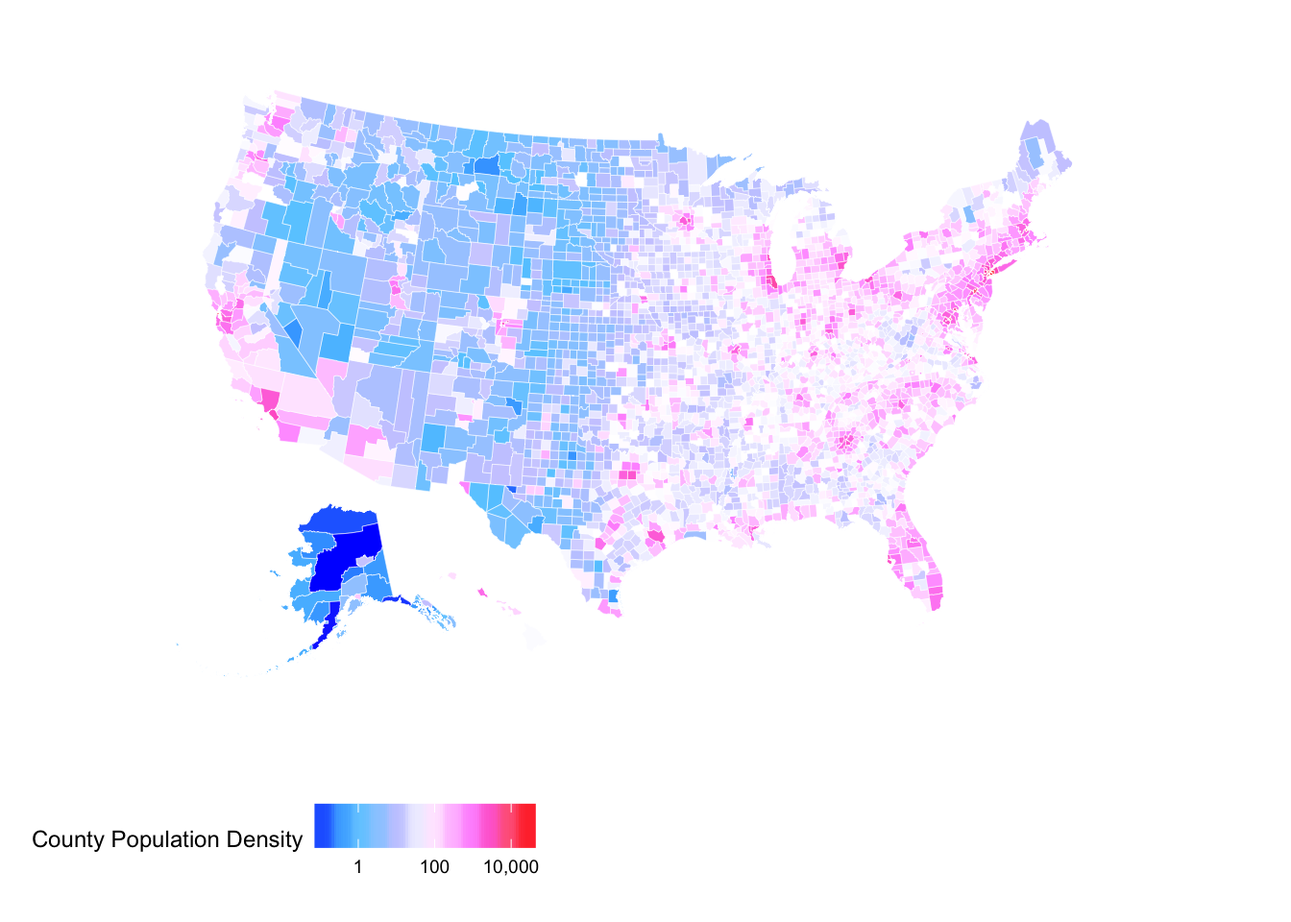
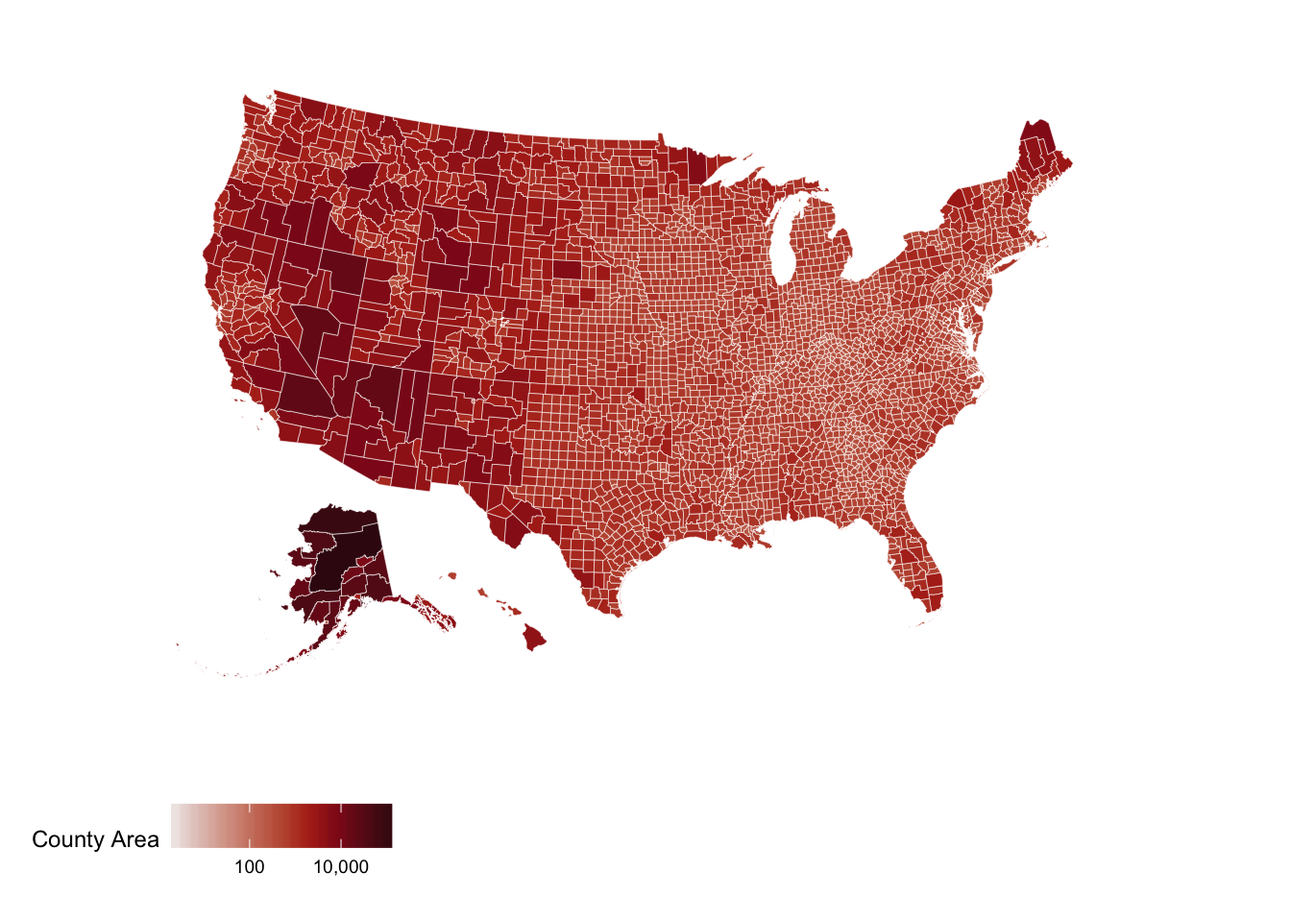
Badges, lots of stinking badges. [skip ci]

Changed region(s): [[0.1562, 0.0938, 0.8438, 0.7188], [0.0938, 0.8438, 0.4375, 0.9688], [0.4062, 0.6875, 0.4375, 0.7188]]

diff --git a/docs/index.html b/docs/index.html
@@ -1,8 +1,20 @@
 <!DOCTYPE html>
-<!-- Generated by pkgdown: do not edit by hand --><html><head><meta http-equiv="Content-Type" content="text/html; charset=UTF-8"><meta charset="utf-8"><meta http-equiv="X-UA-Compatible" content="IE=edge"><meta name="viewport" content="width=device-width, initial-scale=1.0"><title>Color Palettes using Colormaps Node Module &bull; colormap</title><!-- jquery --><script src="https://code.jquery.com/jquery-3.1.0.min.js" integrity="sha384-nrOSfDHtoPMzJHjVTdCopGqIqeYETSXhZDFyniQ8ZHcVy08QesyHcnOUpMpqnmWq" crossorigin="anonymous"></script><!-- Bootstrap --><link href="https://maxcdn.bootstrapcdn.com/bootstrap/3.3.7/css/bootstrap.min.css" rel="stylesheet" integrity="sha384-BVYiiSIFeK1dGmJRAkycuHAHRg32OmUcww7on3RYdg4Va+PmSTsz/K68vbdEjh4u" crossorigin="anonymous"><script src="https://maxcdn.bootstrapcdn.com/bootstrap/3.3.7/js/bootstrap.min.js" integrity="sha384-Tc5IQib027qvyjSMfHjOMaLkfuWVxZxUPnCJA7l2mCWNIpG9mGCD8wGNIcPD7Txa" crossorigin="anonymous"></script><!-- Font Awesome icons --><link href="https://maxcdn.bootstrapcdn.com/font-awesome/4.6.3/css/font-awesome.min.css" rel="stylesheet" integrity="sha384-T8Gy5hrqNKT+hzMclPo118YTQO6cYprQmhrYwIiQ/3axmI1hQomh7Ud2hPOy8SP1" crossorigin="anonymous"><!-- pkgdown --><link href="pkgdown.css" rel="stylesheet"><script src="pkgdown.js"></script><!-- mathjax --><script src="https://cdn.mathjax.org/mathjax/latest/MathJax.js?config=TeX-AMS-MML_HTMLorMML"></script><!--[if lt IE 9]>
+<!-- Generated by pkgdown: do not edit by hand --><html>
+<head>
+<meta http-equiv="Content-Type" content="text/html; charset=UTF-8">
+<meta charset="utf-8">
+<meta http-equiv="X-UA-Compatible" content="IE=edge">
+<meta name="viewport" content="width=device-width, initial-scale=1.0">
+<title>Color Palettes using Colormaps Node Module • colormap</title>
+<!-- jquery --><script src="https://code.jquery.com/jquery-3.1.0.min.js" integrity="sha384-nrOSfDHtoPMzJHjVTdCopGqIqeYETSXhZDFyniQ8ZHcVy08QesyHcnOUpMpqnmWq" crossorigin="anonymous"></script><!-- Bootstrap --><link href="https://maxcdn.bootstrapcdn.com/bootstrap/3.3.7/css/bootstrap.min.css" rel="stylesheet" integrity="sha384-BVYiiSIFeK1dGmJRAkycuHAHRg32OmUcww7on3RYdg4Va+PmSTsz/K68vbdEjh4u" crossorigin="anonymous">
+<script src="https://maxcdn.bootstrapcdn.com/bootstrap/3.3.7/js/bootstrap.min.js" integrity="sha384-Tc5IQib027qvyjSMfHjOMaLkfuWVxZxUPnCJA7l2mCWNIpG9mGCD8wGNIcPD7Txa" crossorigin="anonymous"></script><!-- Font Awesome icons --><link href="https://maxcdn.bootstrapcdn.com/font-awesome/4.6.3/css/font-awesome.min.css" rel="stylesheet" integrity="sha384-T8Gy5hrqNKT+hzMclPo118YTQO6cYprQmhrYwIiQ/3axmI1hQomh7Ud2hPOy8SP1" crossorigin="anonymous">
+<!-- pkgdown --><link href="pkgdown.css" rel="stylesheet">
+<script src="pkgdown.js"></script><!-- mathjax --><script src="https://cdn.mathjax.org/mathjax/latest/MathJax.js?config=TeX-AMS-MML_HTMLorMML"></script><!--[if lt IE 9]>
 <script src="https://oss.maxcdn.com/html5shiv/3.7.3/html5shiv.min.js"></script>
 <script src="https://oss.maxcdn.com/respond/1.4.2/respond.min.js"></script>
-<![endif]--></head><body>
+<![endif]-->
+</head>
+<body>
     <div class="container">
       <header><div class="navbar navbar-default  navbar-fixed-top" role="navigation">
   <div class="container">
@@ -15,7 +27,8 @@
       <a class="navbar-brand" href="index.html">colormap</a>
     </div>
     <div id="navbar" class="navbar-collapse collapse">
-      <ul class="nav navbar-nav"><li>
+      <ul class="nav navbar-nav">
+<li>
   <a href="index.html">Home</a>
 </li>
 <li>
@@ -24,15 +37,21 @@
 <li>
   <a href="news/index.html">News</a>
 </li>
-      </ul><ul class="nav navbar-nav navbar-right"><li>
+      </ul>
+<ul class="nav navbar-nav navbar-right">
+<li>
   <a href="https://github.com/bhaskarvk/colormap">
     <span class="fa fa-github fa-lg"></span>
      
   </a>
 </li>
-      </ul></div><!--/.nav-collapse -->
-  </div><!--/.container -->
-</div><!--/.navbar -->
+      </ul>
+</div>
+<!--/.nav-collapse -->
+  </div>
+<!--/.container -->
+</div>
+<!--/.navbar -->
       
       </header><div class="row">
   <div class="col-md-9">
@@ -42,82 +61,85 @@
     
 <div class="contents">
 <!-- README.md is generated from README.Rmd. Please edit that file -->
-<div id="color-palettes-from-node.js-colormap-module." class="section level2">
-<h2 class="hasAnchor"><a href="#color-palettes-from-node.js-colormap-module." class="anchor"></a>Color Palettes from Node.js Colormap module.</h2>
 
-<p>There are also scale functions that can be used with ggplot2.</p>
-<div id="information" class="section level3">
-<h3 class="hasAnchor"><a href="#information" class="anchor"></a>Information</h3>
-<div id="project-status" class="section level4">
-<h4 class="hasAnchor"><a href="#project-status" class="anchor"></a>Project Status</h4>
-<p><a href="http://www.repostatus.org/#active"><img src="http://www.repostatus.org/badges/latest/active.svg" alt="Project Status: Active &ndash; The project has reached a stable, usable state and is being actively developed."></a> <a href="/commits/master"><img src="https://img.shields.io/badge/last%20change-2016--11--15-yellowgreen.svg" alt="Last-changedate"></a></p>
-</div>
-<div id="build-status" class="section level4">
-<h4 class="hasAnchor"><a href="#build-status" class="anchor"></a>Build Status</h4>
 <p><a href="https://travis-ci.org/bhaskarvk/colormap"><img src="https://travis-ci.org/bhaskarvk/colormap.svg?branch=master" alt="Travis-CI Build Status"></a> <a href="https://ci.appveyor.com/project/bhaskarvk/colormap"><img src="https://ci.appveyor.com/api/projects/status/github/bhaskarvk/colormap?branch=master&amp;svg=true" alt="AppVeyor Build Status"></a></p>
-</div>
-<div id="cran-status" class="section level4">
-<h4 class="hasAnchor"><a href="#cran-status" class="anchor"></a>CRAN Status</h4>
-<p><a href="https://cran.r-project.org/"><img src="https://img.shields.io/badge/R%3E%3D-3.1.0-6666ff.svg" alt="minimal R version"></a> <a href="http://cran.rstudio.com/web/packages/colormap/index.html"><img src="http://cranlogs.r-pkg.org/badges/grand-total/colormap"></a> <a href="https://cran.r-project.org/package=colormap"><img src="http://www.r-pkg.org/badges/version/colormap" alt="CRAN_Status_Badge"></a> <a href="commits/master"><img src="https://img.shields.io/badge/Package%20version-0.1.4-orange.svg?style=flat-square" alt="packageversion"></a></p>
-</div>
+<p><a href="https://cran.r-project.org/"><img src="https://img.shields.io/badge/R%3E%3D-3.1.0-6666ff.svg" alt="minimal R version"></a> <a href="commits/master"><img src="https://img.shields.io/badge/Package%20version-0.1.4-orange.svg?style=flat-square" alt="packageversion"></a> <a href="http://cran.rstudio.com/web/packages/colormap/index.html"><img src="http://cranlogs.r-pkg.org/badges/grand-total/colormap"></a> <a href="https://cran.r-project.org/package=colormap"><img src="http://www.r-pkg.org/badges/version/colormap" alt="CRAN_Status_Badge"></a></p>
+<hr>
+<div id="color-palettes-from-node.js-colormap-module." class="section level2">
+<h2 class="hasAnchor">
+<a href="#color-palettes-from-node.js-colormap-module." class="anchor"></a>Color Palettes from Node.js Colormap module.</h2>
+<p>This is an R package that allows you to generate colors from color palettes defined in Node.js’s <a href="https://github.com/bpostlethwaite/colormap">colormap</a> module. In total it provides 44 distinct palettes made from sequential and/or diverging colors. In addition to the pre defined palettes you can also specify your own set of colors.</p>
+<p>There are also scale functions that can be used with ggplot2.</p>
 <div id="changelog" class="section level4">
-<h4 class="hasAnchor"><a href="#changelog" class="anchor"></a>Changelog</h4>
-<ul><li>2016-11-15 0.1.4 With Viridis as default theme.</li>
+<h4 class="hasAnchor">
+<a href="#changelog" class="anchor"></a>Changelog</h4>
+<ul>
+<li>2016-11-15 0.1.4 With Viridis as default theme.</li>
 <li>2016-10-21 0.1.3 Now on CRAN.</li>
 <li>2016-09-06 Ability to generate a custom palette.</li>
 <li>2016-08-30 Input Validation and ggplot2 scales.</li>
 <li>2016-08-29 First Release.</li>
-</ul></div>
+</ul>
 </div>
 <div id="credits" class="section level3">
-<h3 class="hasAnchor"><a href="#credits" class="anchor"></a>Credits</h3>
-<ul><li>The <a href="https://github.com/bpostlethwaite/colormap">colormap</a> Node.js module which does all the heavylifting.</li>
+<h3 class="hasAnchor">
+<a href="#credits" class="anchor"></a>Credits</h3>
+<ul>
+<li>The <a href="https://github.com/bpostlethwaite/colormap">colormap</a> Node.js module which does all the heavylifting.</li>
 <li>The <a href="https://github.com/jeroenooms/V8">V8</a> package which allows R code to call Javascript code.</li>
-<li><a href="https://twitter.com/hrbrmstr">Bob Rudis</a>&rsquo;s <a href="https://github.com/hrbrmstr/zoneparser">zoneparser</a> package which I used as a skeleton for this pacakge.</li>
-<li><a href="https://twitter.com/sjmgarnier">Simon Garnier</a>&rsquo;s <a href="https://github.com/sjmgarnier/viridis">viridis</a> package for ggplot2 scale functions.</li>
-</ul></div>
+<li>
+<a href="https://twitter.com/hrbrmstr">Bob Rudis</a>’s <a href="https://github.com/hrbrmstr/zoneparser">zoneparser</a> package which I used as a skeleton for this pacakge.</li>
+<li>
+<a href="https://twitter.com/sjmgarnier">Simon Garnier</a>’s <a href="https://github.com/sjmgarnier/viridis">viridis</a> package for ggplot2 scale functions.</li>
+</ul>
+</div>
 <div id="installation" class="section level3">
-<h3 class="hasAnchor"><a href="#installation" class="anchor"></a>Installation</h3>
+<h3 class="hasAnchor">
+<a href="#installation" class="anchor"></a>Installation</h3>
 <p>Requires <a href="https://cran.r-project.org/web/packages/V8/index.html">V8</a></p>
-<div class="sourceCode"><pre class="sourceCode r"><code class="sourceCode r">if(!<span class="kw">require</span>(<span class="st">"V8"</span>)) <span class="kw">install.packages</span>(<span class="st">"V8"</span>)
-if(!<span class="kw">require</span>(<span class="st">"devtools"</span>)) <span class="kw">install.packages</span>(<span class="st">"devtools"</span>)
-devtools::<span class="kw">install_github</span>(<span class="st">"bhaskarvk/colormap"</span>)</code></pre></div>
+<div class="sourceCode"><pre class="sourceCode r"><code class="sourceCode r"><span class="cf">if</span>(<span class="op">!</span><span class="kw">require</span>(<span class="st">"V8"</span>)) <span class="kw">install.packages</span>(<span class="st">"V8"</span>)
+<span class="cf">if</span>(<span class="op">!</span><span class="kw">require</span>(<span class="st">"devtools"</span>)) <span class="kw">install.packages</span>(<span class="st">"devtools"</span>)
+devtools<span class="op">::</span><span class="kw">install_github</span>(<span class="st">"bhaskarvk/colormap"</span>)</code></pre></div>
 </div>
 <div id="usage" class="section level3">
-<h3 class="hasAnchor"><a href="#usage" class="anchor"></a>Usage</h3>
+<h3 class="hasAnchor">
+<a href="#usage" class="anchor"></a>Usage</h3>
 <p>The main function is <code>colormap</code> which takes 5 optional arguments</p>
-<ul><li>colormap: A string representing one of the 44 built-in colormaps.You can use the <code>colormaps</code> list to specify a value. e.g. <code>colormaps$density</code> <strong>OR</strong> A vector of colors in hex e.g.&nbsp;c(&lsquo;#000000&rsquo;,&lsquo;#777777&rsquo;,&lsquo;#FFFFFF&rsquo;) <strong>OR</strong> A list of list e.g.&nbsp;list(list(index=0,rgb=c(255,255,255)),list(index=1,rgb=c(255,0,0)))</li>
+<ul>
+<li>colormap: A string representing one of the 44 built-in colormaps.You can use the <code>colormaps</code> list to specify a value. e.g. <code>colormaps$density</code> <strong>OR</strong> A vector of colors in hex e.g. c(‘#000000’,‘#777777’,‘#FFFFFF’) <strong>OR</strong> A list of list e.g. list(list(index=0,rgb=c(255,255,255)),list(index=1,rgb=c(255,0,0)))</li>
 <li>nshades: Number of colors to generate.</li>
-<li>format: one of &lsquo;hex&rsquo;, &lsquo;rgb&rsquo;, &lsquo;rgbaString&rsquo;</li>
+<li>format: one of ‘hex’, ‘rgb’, ‘rgbaString’</li>
 <li>alpha: Between 0 &amp; 1 to specify the transparency.</li>
 <li>reverse: Boolean. Whether to reverse the order of the colors returned or not.</li>
-</ul></div>
+</ul>
+</div>
 <div id="example" class="section level3">
-<h3 class="hasAnchor"><a href="#example" class="anchor"></a>Example</h3>
+<h3 class="hasAnchor">
+<a href="#example" class="anchor"></a>Example</h3>
 <div class="sourceCode"><pre class="sourceCode r"><code class="sourceCode r"><span class="kw">library</span>(colormap)
 
 <span class="co"># Defaults to 72 colors from the 'viridis' palette.</span>
-scales::<span class="kw">show_col</span>(<span class="kw"><a href="reference/colormap.html">colormap</a></span>(), <span class="dt">labels =</span> F)</code></pre></div>
+scales<span class="op">::</span><span class="kw">show_col</span>(<span class="kw"><a href="reference/colormap.html">colormap</a></span>(), <span class="dt">labels =</span> F)</code></pre></div>
 <p><img src="README-eg1-1.png" width="672"></p>
 <div class="sourceCode"><pre class="sourceCode r"><code class="sourceCode r">
 <span class="co"># Specify a different palette from a list of pre-defined palette.</span>
-scales::<span class="kw">show_col</span>(<span class="kw"><a href="reference/colormap.html">colormap</a></span>(<span class="dt">colormap=</span>colormaps$temperature, <span class="dt">nshades=</span><span class="dv">20</span>))</code></pre></div>
+scales<span class="op">::</span><span class="kw">show_col</span>(<span class="kw"><a href="reference/colormap.html">colormap</a></span>(<span class="dt">colormap=</span>colormaps<span class="op">$</span>temperature, <span class="dt">nshades=</span><span class="dv">20</span>))</code></pre></div>
 <p><img src="README-eg1-2.png" width="672"></p>
 <div class="sourceCode"><pre class="sourceCode r"><code class="sourceCode r">
 <span class="co"># Specify opacity value.</span>
-scales::<span class="kw">show_col</span>(<span class="kw"><a href="reference/colormap.html">colormap</a></span>(<span class="dt">colormap=</span>colormaps$temperature, <span class="dt">nshades=</span><span class="dv">20</span>, <span class="dt">alpha=</span><span class="fl">0.7</span>))</code></pre></div>
+scales<span class="op">::</span><span class="kw">show_col</span>(<span class="kw"><a href="reference/colormap.html">colormap</a></span>(<span class="dt">colormap=</span>colormaps<span class="op">$</span>temperature, <span class="dt">nshades=</span><span class="dv">20</span>, <span class="dt">alpha=</span><span class="fl">0.7</span>))</code></pre></div>
 <p><img src="README-eg1-3.png" width="672"></p>
 <div class="sourceCode"><pre class="sourceCode r"><code class="sourceCode r">
 <span class="co"># Specify colormap as vector of colors.</span>
-scales::<span class="kw">show_col</span>(<span class="kw"><a href="reference/colormap.html">colormap</a></span>(<span class="dt">colormap=</span><span class="kw">c</span>(<span class="st">'#FFFFFF'</span>,<span class="st">'#FF0000'</span>),<span class="dt">nshades =</span> <span class="dv">12</span>))</code></pre></div>
+scales<span class="op">::</span><span class="kw">show_col</span>(<span class="kw"><a href="reference/colormap.html">colormap</a></span>(<span class="dt">colormap=</span><span class="kw">c</span>(<span class="st">'#FFFFFF'</span>,<span class="st">'#FF0000'</span>),<span class="dt">nshades =</span> <span class="dv">12</span>))</code></pre></div>
 <p><img src="README-eg1-4.png" width="672"></p>
 <div class="sourceCode"><pre class="sourceCode r"><code class="sourceCode r">
 <span class="co"># Specify colormap as list of lists.</span>
-scales::<span class="kw">show_col</span>(<span class="kw"><a href="reference/colormap.html">colormap</a></span>(<span class="dt">colormap=</span><span class="kw">list</span>(<span class="kw">list</span>(<span class="dt">index=</span><span class="dv">0</span>,<span class="dt">rgb=</span><span class="kw">c</span>(<span class="dv">0</span>,<span class="dv">255</span>,<span class="dv">0</span>)),
+scales<span class="op">::</span><span class="kw">show_col</span>(<span class="kw"><a href="reference/colormap.html">colormap</a></span>(<span class="dt">colormap=</span><span class="kw">list</span>(<span class="kw">list</span>(<span class="dt">index=</span><span class="dv">0</span>,<span class="dt">rgb=</span><span class="kw">c</span>(<span class="dv">0</span>,<span class="dv">255</span>,<span class="dv">0</span>)),
                                         <span class="kw">list</span>(<span class="dt">index=</span><span class="dv">1</span>,<span class="dt">rgb=</span><span class="kw">c</span>(<span class="dv">255</span>,<span class="dv">0</span>,<span class="dv">255</span>))),
                           <span class="dt">nshades=</span><span class="dv">12</span>, <span class="dt">alpha=</span><span class="fl">0.65</span>))</code></pre></div>
 <p><img src="README-eg1-5.png" width="672"></p>
-<p>You can also get the colors in a &lsquo;rgb&rsquo; matrix and a rgba string vector format</p>
+<p>You can also get the colors in a ‘rgb’ matrix and a rgba string vector format</p>
 <div class="sourceCode"><pre class="sourceCode r"><code class="sourceCode r"><span class="kw"><a href="reference/colormap.html">colormap</a></span>(<span class="dt">format=</span><span class="st">'rgb'</span>,<span class="dt">nshades=</span><span class="dv">5</span>) <span class="co"># As rgb</span>
 <span class="co">#&gt;      [,1] [,2] [,3] [,4]</span>
 <span class="co">#&gt; [1,]   68    1   84    1</span>
@@ -132,8 +154,8 @@ scales::<span class="kw">show_col</span>(<span class="kw"><a href="reference/col
 <span class="co">#&gt;  [7] "rgba(55,181,120,1)" "rgba(109,204,88,1)" "rgba(176,221,49,1)"</span>
 <span class="co">#&gt; [10] "rgba(253,231,37,1)"</span></code></pre></div>
 <p>You also get <code>scale_fill_colormap</code> and <code>scale_color_colormap</code> functions for using these palettes in ggplot2 plots. Check <code><a href="reference/scale_color_colormap.html">?colormap::scale_fill_colormap</a></code> for details.</p>
-<div class="sourceCode"><pre class="sourceCode r"><code class="sourceCode r">ensureCranPkg &lt;-<span class="st"> </span>function(pkg) {
-  if(!<span class="kw">suppressWarnings</span>(<span class="kw">requireNamespace</span>(pkg, <span class="dt">quietly =</span> <span class="ot">TRUE</span>))) {
+<div class="sourceCode"><pre class="sourceCode r"><code class="sourceCode r">ensureCranPkg &lt;-<span class="st"> </span><span class="cf">function</span>(pkg) {
+  <span class="cf">if</span>(<span class="op">!</span><span class="kw">suppressWarnings</span>(<span class="kw">requireNamespace</span>(pkg, <span class="dt">quietly =</span> <span class="ot">TRUE</span>))) {
     <span class="kw">install.packages</span>(pkg)
   }
 }
@@ -143,16 +165,16 @@ scales::<span class="kw">show_col</span>(<span class="kw"><a href="reference/col
 <span class="kw">library</span>(ggplot2)
 
 <span class="co"># Continuous color scale</span>
-<span class="kw">ggplot</span>(mtcars,<span class="kw">aes</span>(<span class="dt">x=</span>wt,<span class="dt">y=</span>mpg)) +<span class="st"> </span><span class="kw">geom_point</span>(<span class="kw">aes</span>(<span class="dt">color=</span>hp)) +
-<span class="st">  </span><span class="kw">theme_minimal</span>() +
+<span class="kw">ggplot</span>(mtcars,<span class="kw">aes</span>(<span class="dt">x=</span>wt,<span class="dt">y=</span>mpg)) <span class="op">+</span><span class="st"> </span><span class="kw">geom_point</span>(<span class="kw">aes</span>(<span class="dt">color=</span>hp)) <span class="op">+</span>
+<span class="st">  </span><span class="kw">theme_minimal</span>() <span class="op">+</span>
 <span class="st">  </span><span class="kw"><a href="reference/scale_color_colormap.html">scale_color_colormap</a></span>(<span class="st">'Horse Power'</span>,
-                       <span class="dt">discrete =</span> F,<span class="dt">colormap =</span> colormaps$viridis, <span class="dt">reverse =</span> T)</code></pre></div>
+                       <span class="dt">discrete =</span> F,<span class="dt">colormap =</span> colormaps<span class="op">$</span>viridis, <span class="dt">reverse =</span> T)</code></pre></div>
 <p><img src="README-ggplot2-1.png" width="576"></p>
 <div class="sourceCode"><pre class="sourceCode r"><code class="sourceCode r">
-<span class="kw">ggplot</span>(mtcars,<span class="kw">aes</span>(<span class="dt">x=</span>wt,<span class="dt">y=</span>mpg)) +<span class="st"> </span><span class="kw">geom_point</span>(<span class="kw">aes</span>(<span class="dt">color=</span><span class="kw">as.factor</span>(cyl))) +
-<span class="st">  </span><span class="kw">theme_minimal</span>() +
+<span class="kw">ggplot</span>(mtcars,<span class="kw">aes</span>(<span class="dt">x=</span>wt,<span class="dt">y=</span>mpg)) <span class="op">+</span><span class="st"> </span><span class="kw">geom_point</span>(<span class="kw">aes</span>(<span class="dt">color=</span><span class="kw">as.factor</span>(cyl))) <span class="op">+</span>
+<span class="st">  </span><span class="kw">theme_minimal</span>() <span class="op">+</span>
 <span class="st">  </span><span class="kw"><a href="reference/scale_color_colormap.html">scale_color_colormap</a></span>(<span class="st">'Cylinder'</span>,
-                       <span class="dt">discrete =</span> T,<span class="dt">colormap =</span> colormaps$warm, <span class="dt">reverse =</span> T)</code></pre></div>
+                       <span class="dt">discrete =</span> T,<span class="dt">colormap =</span> colormaps<span class="op">$</span>warm, <span class="dt">reverse =</span> T)</code></pre></div>
 <p><img src="README-ggplot2-2.png" width="576"></p>
 <p>Here are two choroplethes using <code>scale_fill_colormap</code>.</p>
 <div class="sourceCode"><pre class="sourceCode r"><code class="sourceCode r"><span class="kw">ensureCranPkg</span>(<span class="st">'maptools'</span>)
@@ -161,8 +183,8 @@ scales::<span class="kw">show_col</span>(<span class="kw"><a href="reference/col
 <span class="kw">ensureCranPkg</span>(<span class="st">'ggthemes'</span>)
 <span class="kw">ensureCranPkg</span>(<span class="st">'devtools'</span>)
 
-if(!<span class="kw">suppressWarnings</span>(<span class="kw">requireNamespace</span>(<span class="st">'albersusa'</span>, <span class="dt">quietly =</span> <span class="ot">TRUE</span>))) {
-  devtools::<span class="kw">install_github</span>(<span class="st">'hrbrmstr/albersusa'</span>)
+<span class="cf">if</span>(<span class="op">!</span><span class="kw">suppressWarnings</span>(<span class="kw">requireNamespace</span>(<span class="st">'albersusa'</span>, <span class="dt">quietly =</span> <span class="ot">TRUE</span>))) {
+  devtools<span class="op">::</span><span class="kw">install_github</span>(<span class="st">'hrbrmstr/albersusa'</span>)
 }
 
 <span class="kw">library</span>(maptools)
@@ -175,18 +197,16 @@ if(!<span class="kw">suppressWarnings</span>(<span class="kw">requireNamespace</
 us &lt;-<span class="st"> </span><span class="kw">usa_composite</span>()
 us_map &lt;-<span class="st"> </span><span class="kw">fortify</span>(us, <span class="dt">region=</span><span class="st">"fips_state"</span>)
 
-gg_usa &lt;-<span class="st"> </span><span class="kw">ggplot</span>(us@data, <span class="kw">aes</span>(<span class="dt">map_id=</span>fips_state,<span class="dt">fill=</span>pop_2014)) +
-<span class="st">  </span><span class="kw">geom_map</span>(<span class="dt">map=</span>us_map, <span class="dt">color=</span><span class="st">'#ffffff'</span>, <span class="dt">size=</span><span class="fl">0.1</span>) +<span class="st"> </span>
-<span class="st">  </span><span class="kw">expand_limits</span>(<span class="dt">x=</span>us_map$long,<span class="dt">y=</span>us_map$lat) +
-<span class="st">  </span><span class="kw">theme_map</span>() +<span class="st">  </span>
+gg_usa &lt;-<span class="st"> </span><span class="kw">ggplot</span>(us<span class="op">@</span>data, <span class="kw">aes</span>(<span class="dt">map_id=</span>fips_state,<span class="dt">fill=</span>pop_<span class="dv">2014</span>)) <span class="op">+</span>
+<span class="st">  </span><span class="kw">geom_map</span>(<span class="dt">map=</span>us_map, <span class="dt">color=</span><span class="st">'#ffffff'</span>, <span class="dt">size=</span><span class="fl">0.1</span>) <span class="op">+</span><span class="st"> </span>
+<span class="st">  </span><span class="kw">expand_limits</span>(<span class="dt">x=</span>us_map<span class="op">$</span>long,<span class="dt">y=</span>us_map<span class="op">$</span>lat) <span class="op">+</span>
+<span class="st">  </span><span class="kw">theme_map</span>() <span class="op">+</span><span class="st">  </span>
 <span class="st">  </span><span class="kw">theme</span>(<span class="dt">legend.position=</span><span class="st">"right"</span>) 
-<span class="co">#&gt; Warning: `panel.margin` is deprecated. Please use `panel.spacing` property</span>
-<span class="co">#&gt; instead</span>
 
-gg_usa +
-<span class="st">  </span><span class="kw">coord_map</span>(<span class="st">"albers"</span>, <span class="dt">lat0=</span><span class="dv">30</span>, <span class="dt">lat1=</span><span class="dv">40</span>) +
+gg_usa <span class="op">+</span>
+<span class="st">  </span><span class="kw">coord_map</span>(<span class="st">"albers"</span>, <span class="dt">lat0=</span><span class="dv">30</span>, <span class="dt">lat1=</span><span class="dv">40</span>) <span class="op">+</span>
 <span class="st">  </span><span class="kw"><a href="reference/scale_color_colormap.html">scale_fill_colormap</a></span>(<span class="st">"State Population</span><span class="ch">\n</span><span class="st">(2014 Estimates)"</span>, <span class="dt">labels=</span>comma,
-                      <span class="dt">colormap =</span> colormaps$copper, <span class="dt">reverse =</span> T, <span class="dt">discrete =</span> F)</code></pre></div>
+                      <span class="dt">colormap =</span> colormaps<span class="op">$</span>copper, <span class="dt">reverse =</span> T, <span class="dt">discrete =</span> F)</code></pre></div>
 <p><img src="README-maps-1.png" width="672"></p>
 <div class="sourceCode"><pre class="sourceCode r"><code class="sourceCode r">
 
@@ -194,19 +214,17 @@ counties &lt;-<span class="st"> </span><span class="kw">counties_composite</span
 
 counties_map &lt;-<span class="st"> </span><span class="kw">fortify</span>(counties, <span class="dt">region=</span><span class="st">"fips"</span>)
 
-gg_counties &lt;-<span class="st"> </span><span class="kw">ggplot</span>(counties@data, 
-                      <span class="kw">aes</span>(<span class="dt">map_id=</span>fips,<span class="dt">fill=</span>population/census_area)) +
-<span class="st">  </span><span class="kw">geom_map</span>(<span class="dt">map=</span>counties_map, <span class="dt">color=</span><span class="st">'#ffffff'</span>, <span class="dt">size=</span><span class="fl">0.1</span>) +<span class="st"> </span>
-<span class="st">  </span><span class="kw">expand_limits</span>(<span class="dt">x=</span>counties_map$long,<span class="dt">y=</span>counties_map$lat) +
-<span class="st">  </span><span class="kw">theme_map</span>() +<span class="st">  </span>
+gg_counties &lt;-<span class="st"> </span><span class="kw">ggplot</span>(counties<span class="op">@</span>data, 
+                      <span class="kw">aes</span>(<span class="dt">map_id=</span>fips,<span class="dt">fill=</span>census_area)) <span class="op">+</span>
+<span class="st">  </span><span class="kw">geom_map</span>(<span class="dt">map=</span>counties_map, <span class="dt">color=</span><span class="st">'#ffffff'</span>, <span class="dt">size=</span><span class="fl">0.1</span>) <span class="op">+</span><span class="st"> </span>
+<span class="st">  </span><span class="kw">expand_limits</span>(<span class="dt">x=</span>counties_map<span class="op">$</span>long,<span class="dt">y=</span>counties_map<span class="op">$</span>lat) <span class="op">+</span>
+<span class="st">  </span><span class="kw">theme_map</span>() <span class="op">+</span><span class="st">  </span>
 <span class="st">  </span><span class="kw">theme</span>(<span class="dt">legend.position=</span><span class="st">"right"</span>) 
-<span class="co">#&gt; Warning: `panel.margin` is deprecated. Please use `panel.spacing` property</span>
-<span class="co">#&gt; instead</span>
 
-gg_counties +
-<span class="st">  </span><span class="kw">coord_map</span>(<span class="st">"albers"</span>, <span class="dt">lat0=</span><span class="dv">30</span>, <span class="dt">lat1=</span><span class="dv">40</span>) +
-<span class="st">  </span><span class="kw"><a href="reference/scale_color_colormap.html">scale_fill_colormap</a></span>(<span class="st">"County Population Density"</span>, <span class="dt">labels=</span>comma, <span class="dt">trans =</span> <span class="st">'log10'</span>,
-                      <span class="dt">colormap =</span> colormaps$picnic, <span class="dt">reverse =</span> F, <span class="dt">discrete =</span> F) +
+gg_counties <span class="op">+</span>
+<span class="st">  </span><span class="kw">coord_map</span>(<span class="st">"albers"</span>, <span class="dt">lat0=</span><span class="dv">30</span>, <span class="dt">lat1=</span><span class="dv">40</span>) <span class="op">+</span>
+<span class="st">  </span><span class="kw"><a href="reference/scale_color_colormap.html">scale_fill_colormap</a></span>(<span class="st">"County Area"</span>, <span class="dt">labels=</span>comma, <span class="dt">trans =</span> <span class="st">'log10'</span>,
+                      <span class="dt">colormap =</span> colormaps<span class="op">$</span>freesurface_red, <span class="dt">reverse =</span> T, <span class="dt">discrete =</span> F) <span class="op">+</span>
 <span class="st">  </span><span class="kw">theme</span>(<span class="co">#panel.border = element_rect(colour = "black", fill=NA, size=1),</span>
         <span class="dt">legend.position =</span> <span class="st">'bottom'</span>, <span class="dt">legend.direction =</span> <span class="st">"horizontal"</span>)</code></pre></div>
 <p><img src="README-maps-2.png" width="672"></p>
@@ -214,7 +232,7 @@ gg_counties +
 <div class="sourceCode"><pre class="sourceCode r"><code class="sourceCode r"><span class="kw">ensureCranPkg</span>(<span class="st">'purrr'</span>)
 <span class="kw">par</span>(<span class="dt">mfrow=</span><span class="kw">c</span>(<span class="dv">44</span>,<span class="dv">1</span>))
 <span class="kw">par</span>(<span class="dt">mar=</span><span class="kw">rep</span>(<span class="fl">0.25</span>,<span class="dv">4</span>))
-purrr::<span class="kw">walk</span>(colormaps, function(x) { 
+purrr<span class="op">::</span><span class="kw">walk</span>(colormaps, <span class="cf">function</span>(x) { 
   <span class="kw">barplot</span>(<span class="kw">rep</span>(<span class="dv">1</span>,<span class="dv">72</span>), <span class="dt">yaxt=</span><span class="st">"n"</span>, <span class="dt">space=</span><span class="kw">c</span>(<span class="dv">0</span>,<span class="dv">0</span>),<span class="dt">border=</span><span class="ot">NA</span>,
           <span class="dt">col=</span><span class="kw"><a href="reference/colormap.html">colormap</a></span>(<span class="dt">colormap=</span>x), <span class="dt">main =</span> <span class="kw">sprintf</span>(<span class="st">"</span><span class="ch">\n\n</span><span class="st">%s"</span>,x))
   })</code></pre></div>
@@ -228,17 +246,28 @@ purrr::<span class="kw">walk</span>(colormaps, function(x) {
     <div id="sidebar">
       <h2>License</h2>
 <p><a href="https://opensource.org/licenses/mit-license.php">MIT</a> + file <a href="LICENSE">LICENSE</a></p>
-<h2>Links</h2><ul class="list-unstyled"><li><a href="https://cran.r-project.org/package=colormap">Released on CRAN</a></li>
+<h2>Links</h2>
+<ul class="list-unstyled">
+<li><a href="https://cran.r-project.org/package=colormap">Released on CRAN</a></li>
 <li><a href="https://github.com/bhaskarvk/colormap">Developed on GitHub</a></li>
 <li><a href="https://github.com/bhaskarvk/colormap/issues">Report a bug</a></li>
-</ul><html><body><h2>Status</h2>
-  <p><a href="https://github.com/bpostlethwaite/colormap">colormap</a></p></body></html></div>
+</ul>
+<html><body>
+<h2>Status</h2>
+  <p><a href="http://www.repostatus.org/#active"><img src="http://www.repostatus.org/badges/latest/active.svg" alt="Project Status: Active – The project has reached a stable, usable state and is being actively developed."></a></p>
+  <p><a href="/commits/master"><img src="https://img.shields.io/badge/last%20change-2017--02--27-green.svg" alt="Last-changedate"></a></p>
+  <p><a href="https://opensource.org/licenses/MIT"><img src="https://img.shields.io/badge/License-MIT-yellow.svg" alt="License: MIT"></a></p>
+  <p><a href="https://gist.github.com/bhaskarvk/46fbf2ba7b5713151d7e"><img src="https://img.shields.io/badge/keybase-verified-brightgreen.svg" alt="keybase verified"></a></p>
+</body></html>
+</div>
   </div>
 
 </div>
 
 
       <footer><p>Built by <a href="http://hadley.github.io/pkgdown/">pkgdown</a>. Styled with <a href="http://getbootstrap.com">Bootstrap 3</a>.</p>
-      </footer></div>
+      </footer>
+</div>
 
-  </body></html>
+  </body>
+</html>

diff --git a/README.md b/README.md
@@ -1,25 +1,19 @@
 
 <!-- README.md is generated from README.Rmd. Please edit that file -->
+[![Project Status: Active – The project has reached a stable, usable state and is being actively developed.](http://www.repostatus.org/badges/latest/active.svg)](http://www.repostatus.org/#active) [![Last-changedate](https://img.shields.io/badge/last%20change-2017--02--27-green.svg)](/commits/master) [![License: MIT](https://img.shields.io/badge/License-MIT-yellow.svg)](https://opensource.org/licenses/MIT) [![keybase verified](https://img.shields.io/badge/keybase-verified-brightgreen.svg)](https://gist.github.com/bhaskarvk/46fbf2ba7b5713151d7e)
+
+[![Travis-CI Build Status](https://travis-ci.org/bhaskarvk/colormap.svg?branch=master)](https://travis-ci.org/bhaskarvk/colormap) [![AppVeyor Build Status](https://ci.appveyor.com/api/projects/status/github/bhaskarvk/colormap?branch=master&svg=true)](https://ci.appveyor.com/project/bhaskarvk/colormap)
+
+[![minimal R version](https://img.shields.io/badge/R%3E%3D-3.1.0-6666ff.svg)](https://cran.r-project.org/) [![packageversion](https://img.shields.io/badge/Package%20version-0.1.4-orange.svg?style=flat-square)](commits/master) [![](http://cranlogs.r-pkg.org/badges/grand-total/colormap)](http://cran.rstudio.com/web/packages/colormap/index.html) [![CRAN\_Status\_Badge](http://www.r-pkg.org/badges/version/colormap)](https://cran.r-project.org/package=colormap)
+
+------------------------------------------------------------------------
+
 Color Palettes from Node.js Colormap module.
 --------------------------------------------
 
 This is an R package that allows you to generate colors from color palettes defined in Node.js's [colormap](https://github.com/bpostlethwaite/colormap) module. In total it provides 44 distinct palettes made from sequential and/or diverging colors. In addition to the pre defined palettes you can also specify your own set of colors.
 
 There are also scale functions that can be used with ggplot2.
-
-### Information
-
-#### Project Status
-
-[![Project Status: Active – The project has reached a stable, usable state and is being actively developed.](http://www.repostatus.org/badges/latest/active.svg)](http://www.repostatus.org/#active) [![Last-changedate](https://img.shields.io/badge/last%20change-2016--11--15-yellowgreen.svg)](/commits/master)
-
-#### Build Status
-
-[![Travis-CI Build Status](https://travis-ci.org/bhaskarvk/colormap.svg?branch=master)](https://travis-ci.org/bhaskarvk/colormap) [![AppVeyor Build Status](https://ci.appveyor.com/api/projects/status/github/bhaskarvk/colormap?branch=master&svg=true)](https://ci.appveyor.com/project/bhaskarvk/colormap)
-
-#### CRAN Status
-
-[![minimal R version](https://img.shields.io/badge/R%3E%3D-3.1.0-6666ff.svg)](https://cran.r-project.org/) [![](http://cranlogs.r-pkg.org/badges/grand-total/colormap)](http://cran.rstudio.com/web/packages/colormap/index.html) [![CRAN\_Status\_Badge](http://www.r-pkg.org/badges/version/colormap)](https://cran.r-project.org/package=colormap) [![packageversion](https://img.shields.io/badge/Package%20version-0.1.4-orange.svg?style=flat-square)](commits/master)
 
 #### Changelog
 
@@ -179,8 +173,6 @@ gg_usa <- ggplot(us@data, aes(map_id=fips_state,fill=pop_2014)) +
   expand_limits(x=us_map$long,y=us_map$lat) +
   theme_map() +  
   theme(legend.position="right") 
-#> Warning: `panel.margin` is deprecated. Please use `panel.spacing` property
-#> instead
 
 gg_usa +
   coord_map("albers", lat0=30, lat1=40) +
@@ -198,18 +190,16 @@ counties <- counties_composite()
 counties_map <- fortify(counties, region="fips")
 
 gg_counties <- ggplot(counties@data, 
-                      aes(map_id=fips,fill=population/census_area)) +
+                      aes(map_id=fips,fill=census_area)) +
   geom_map(map=counties_map, color='#ffffff', size=0.1) + 
   expand_limits(x=counties_map$long,y=counties_map$lat) +
   theme_map() +  
   theme(legend.position="right") 
-#> Warning: `panel.margin` is deprecated. Please use `panel.spacing` property
-#> instead
 
 gg_counties +
   coord_map("albers", lat0=30, lat1=40) +
-  scale_fill_colormap("County Population Density", labels=comma, trans = 'log10',
-                      colormap = colormaps$picnic, reverse = F, discrete = F) +
+  scale_fill_colormap("County Area", labels=comma, trans = 'log10',
+                      colormap = colormaps$freesurface_red, reverse = T, discrete = F) +
   theme(#panel.border = element_rect(colour = "black", fill=NA, size=1),
         legend.position = 'bottom', legend.direction = "horizontal")
 ```
